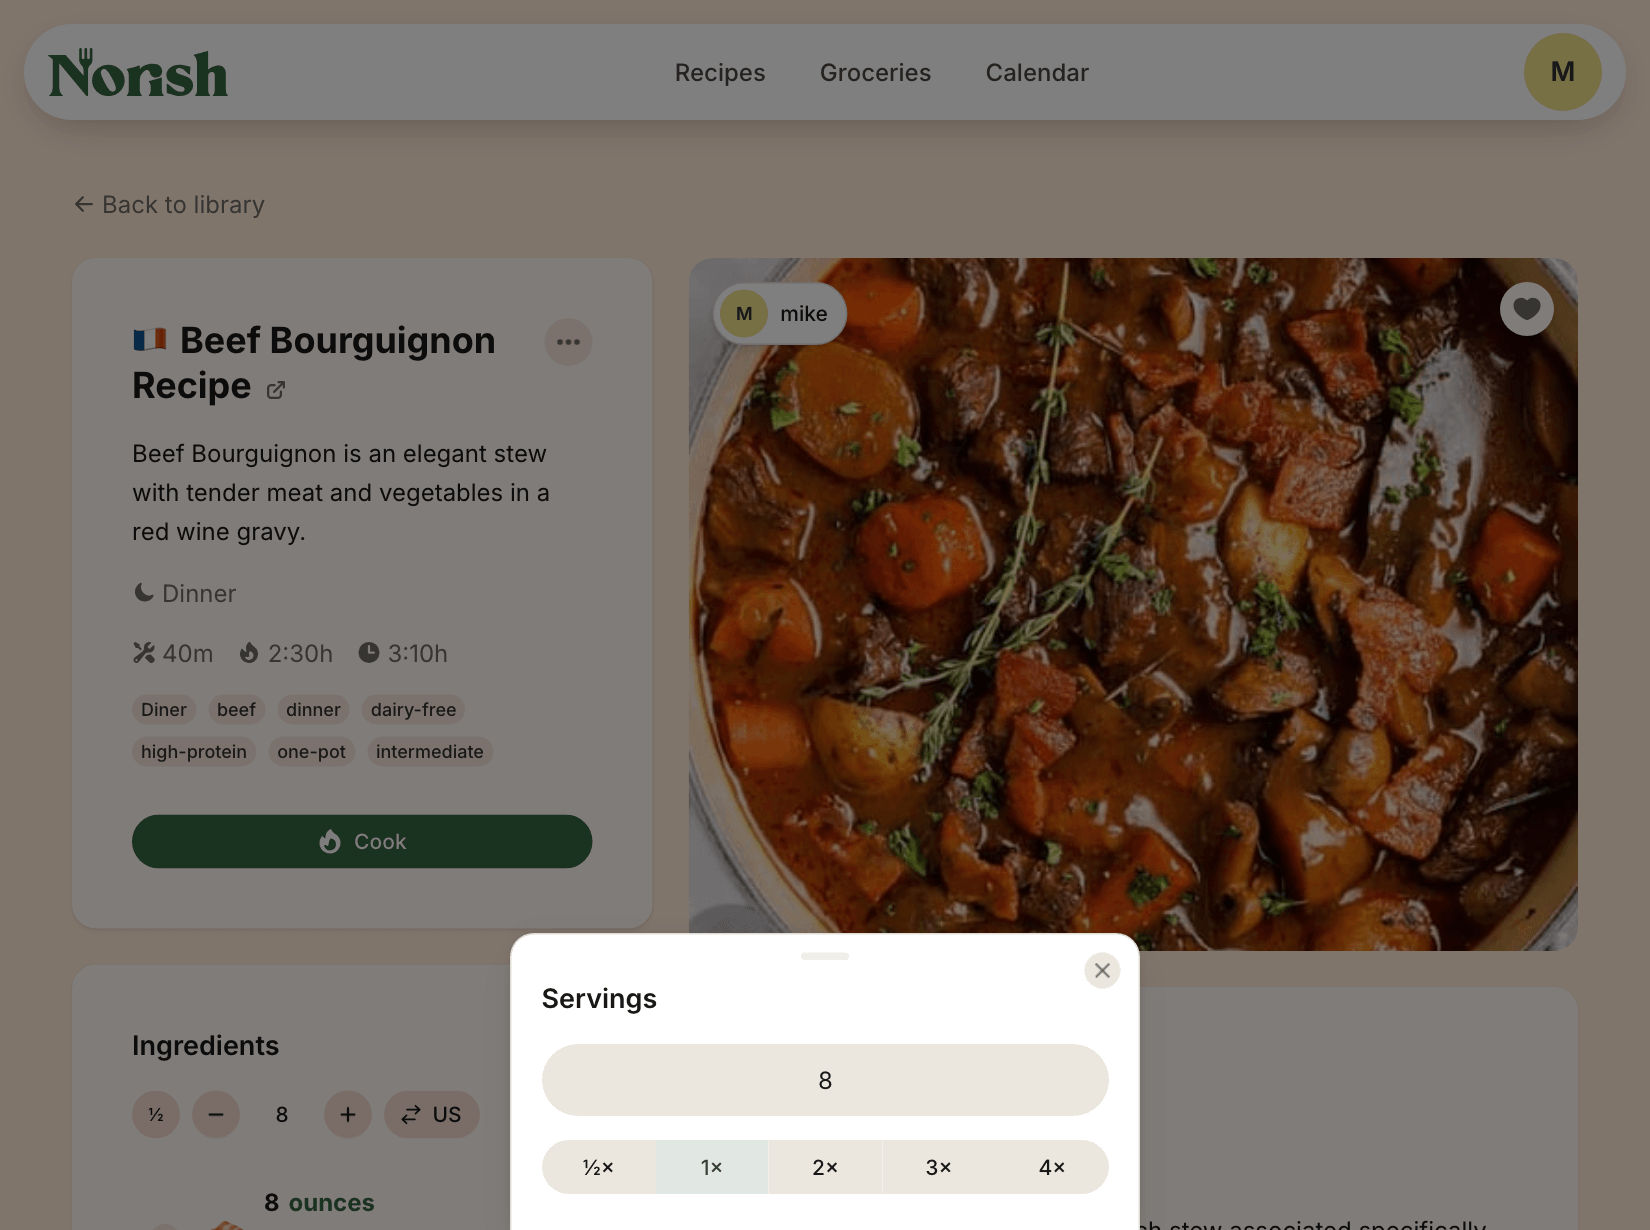
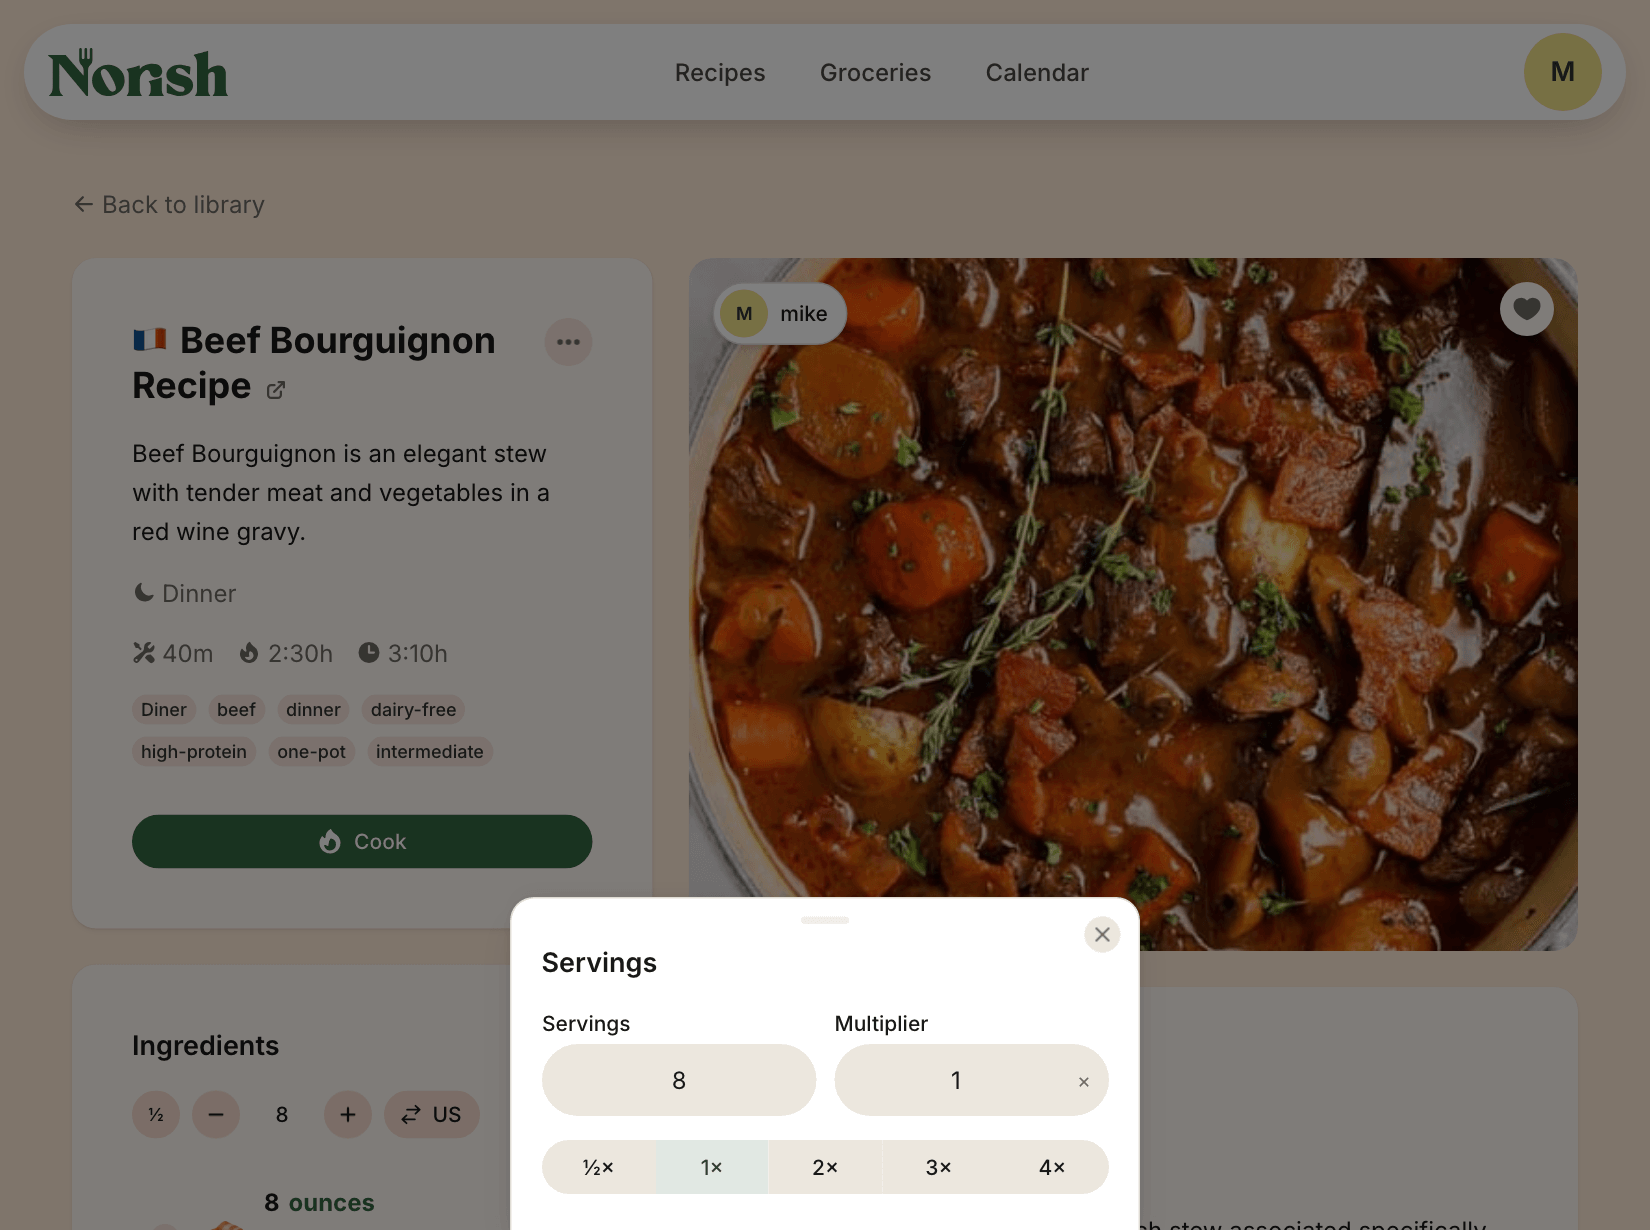
docs(recipes): the servings panel's multiplier

Changed region(s): [[0.3091, 0.7106, 0.7109, 0.8341], [0.4636, 0.8341, 0.5255, 0.9268], [0.5255, 0.8033, 0.5564, 0.8341]]

diff --git a/apps/docs/docs/release-notes/0.26.0-beta.md b/apps/docs/docs/release-notes/0.26.0-beta.md
@@ -105,7 +105,7 @@ Measured on a Pixel 7 profile with a 1.6 Mbps connection and its processor slowe
 
 ### Scale a recipe in one tap
 
-Tap the servings number beside a recipe's ingredients for **½×** to **4×** the servings it was written for, or type any number, like 1.5. **-** and **+** still change it one at a time. See [Recipe page](../recipes/recipe-page.md#servings) ([#682](https://github.com/norish-recipes/norish/issues/682)).
+Tap the servings number beside a recipe's ingredients for **½×** to **4×** the servings it was written for, or type any number of servings or any multiplier, like 1.5. **-** and **+** still change it one at a time. See [Recipe page](../recipes/recipe-page.md#servings) ([#682](https://github.com/norish-recipes/norish/issues/682)).
 
 ### Follow an import through the API
 

diff --git a/apps/docs/docs/recipes/recipe-page.md b/apps/docs/docs/recipes/recipe-page.md
@@ -35,9 +35,10 @@ the rating. Empty sections are left out.
 
 The **-** and **+** beside Ingredients change the servings one at a time, and
 every amount follows. Tap the number between them for more: **½×** to **4×**
-multiply the servings the recipe was written for, or type any number, like 1.5.
+multiply the servings the recipe was written for, or type any number of
+servings or any multiplier, like 1.5.
 
-![The Servings panel over a recipe, with the number field and the ½× to 4× multipliers](/img/screenshots/recipe-servings-panel.png)
+![The Servings panel over a recipe, with the Servings and Multiplier fields above the ½× to 4× buttons](/img/screenshots/recipe-servings-panel.png)
 
 ## Metric and US measurements
 
